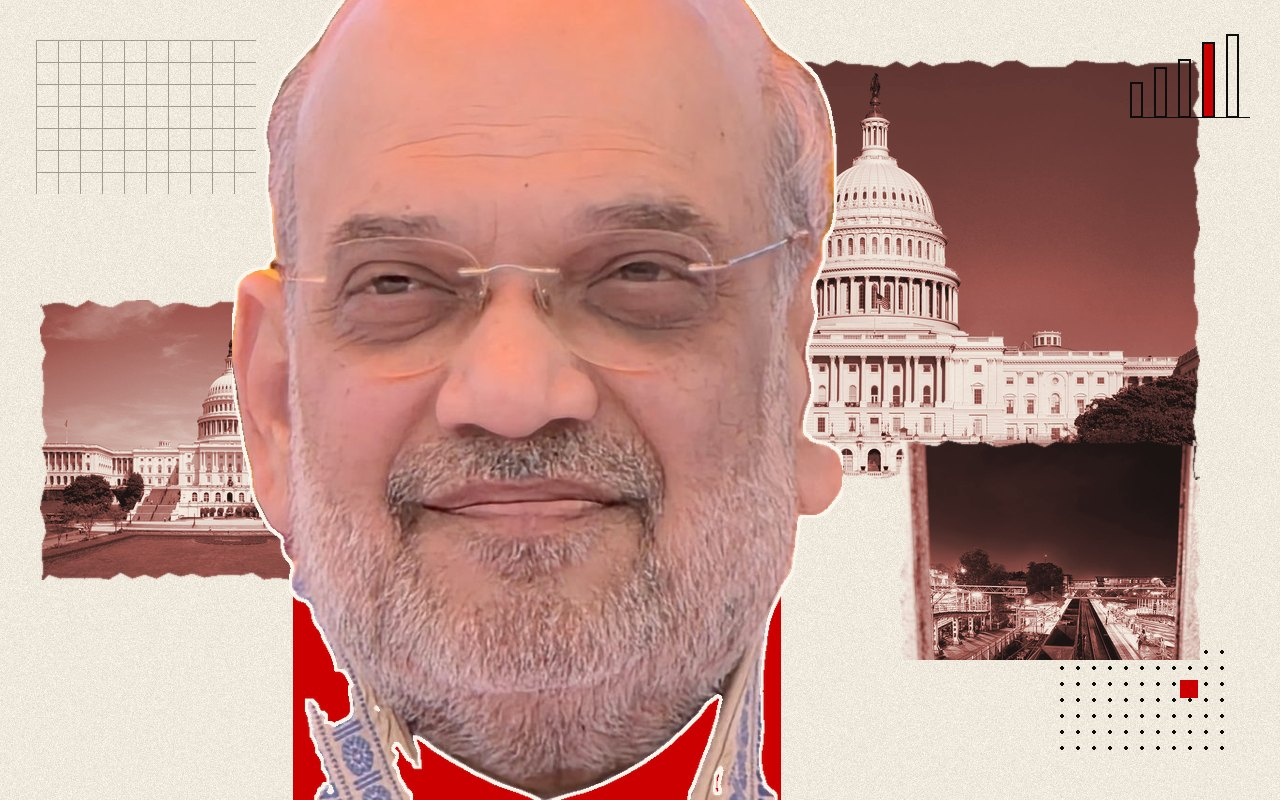
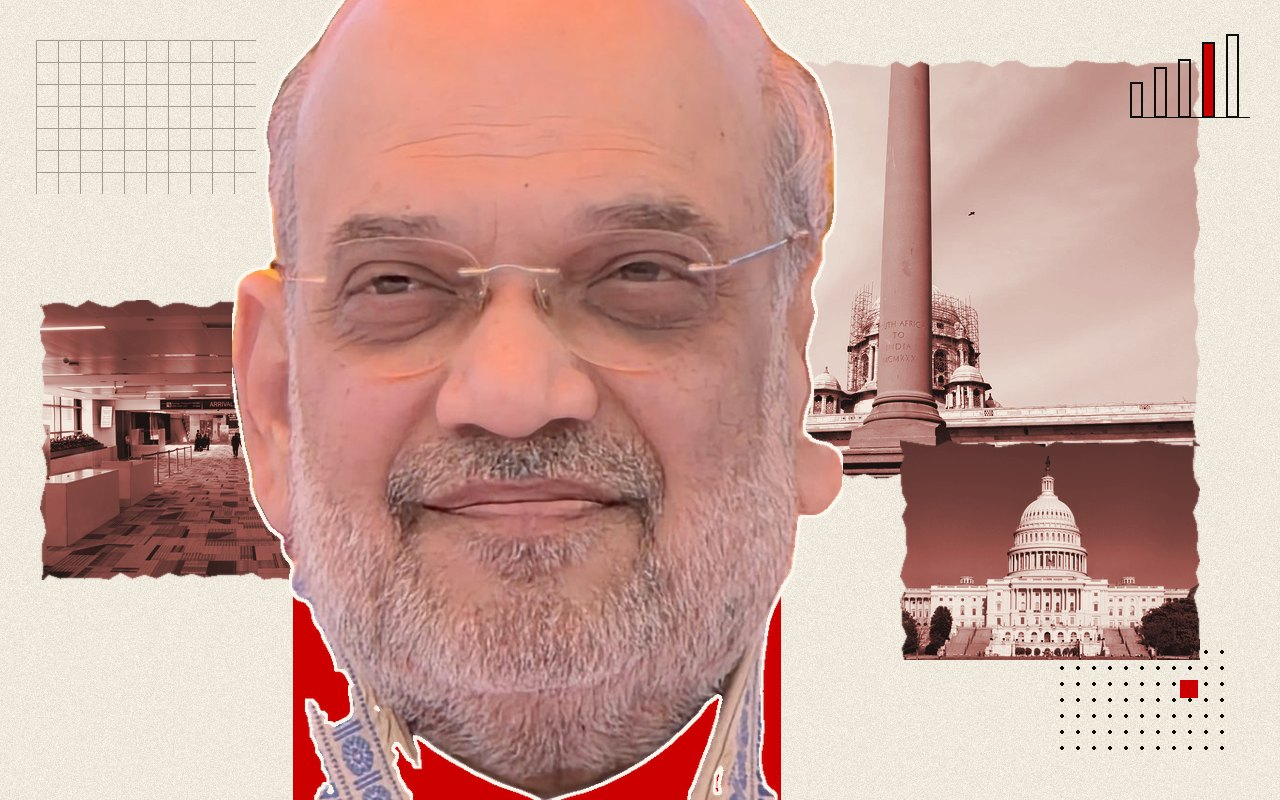
Hourly 20:00 IST: collage fix for the NCB-DEA Operation Monsoon Thunder lead
The first collage put two US Capitol tiles behind a drug-bust story. Added two in-story file photos (North Block, home of the Home Ministry that issued the release; Delhi airport arrivals hall, tied to our earlier customs seizure story) in both languages, so the collage now shows North Block, Delhi airport and one US tile for the India-US operation. Blocklisted x-fcra-explained-2026-amendment-bill-1280.jpg: labelled North Block but shows NGO posters.

Claude-Session: https://claude.ai/code/session_01C3zerTj1wv3wRkA6BjPzEf

Changed region(s): [[0.625, 0.0625, 0.9375, 0.8438], [0.0312, 0.375, 0.2188, 0.7188]]

diff --git a/content/hi/news/ncb-dea-operation-monsoon-thunder-six-arrested-5-lakh-tablets-us.md b/content/hi/news/ncb-dea-operation-monsoon-thunder-six-arrested-5-lakh-tablets-us.md
@@ -81,11 +81,21 @@ verification:
 
 एनसीबी ने **1,500 से ज्यादा गोलियों की ऐसी खेपें** भी पहचानीं जो अमेरिका के अलग-अलग ठिकानों की ओर जा रही थीं। इस खुफिया सूचना पर डीईए ने दो खेपें रोककर जब्त कीं। अमेरिकी एजेंसी एनसीबी से मिले सुराग खंगाल रही है, जिनमें पार्सल पाने वाले ड्रॉप-शिपरों के ब्योरे भी हैं।
 
+```photo
+{"n": 2, "subject": "दिल्ली हवाई अड्डा", "caption": "डाक और हवाई रास्ते से सीमा पार जाने वाले नशे से लड़ाई लगातार जारी है: एक पिछले मामले में दिल्ली हवाई अड्डे के कार्गो परिसर में सीमा शुल्क अधिकारियों को बैंकॉक से आई 148 किलो भांग मिली थी (फाइल फोटो)।", "alt": "दिल्ली हवाई अड्डे का आगमन हॉल (फाइल फोटो)"}
+```
+
+
 ## शाह और वॉशिंगटन ने क्या कहा
 
 श्री शाह ने एक्स पर लिखा कि वे "ऑपरेशन मॉनसून थंडर की अनुकरणीय सफलता पर एनसीबी और अमेरिकी डीईए को हार्दिक बधाई" देते हैं। उन्होंने कहा कि दोनों देशों में हुई गिरफ्तारियां और जब्तियां नशे के खिलाफ भारत-अमेरिका साझेदारी की ताकत दिखाती हैं, और सरकार की **शून्य सहनशीलता नीति** दोहराई: प्रधानमंत्री नरेंद्र मोदी के नेतृत्व में भारत यह सुनिश्चित करने में लगा है कि कोई नशीला पदार्थ देश में न आए और न दूसरों तक जाए।
 
 गृह मंत्रालय की अपनी विज्ञप्ति में, जो 21 नवंबर को पीआईबी के जरिए जारी हुई, दोनों एजेंसियों को यही बधाई दी गई है।
+
+```photo
+{"n": 1, "subject": "नॉर्थ ब्लॉक", "caption": "नॉर्थ ब्लॉक, जहां गृह मंत्रालय है, जिसने इस ऑपरेशन पर विज्ञप्ति जारी की (फाइल फोटो)।", "alt": "नई दिल्ली का नॉर्थ ब्लॉक, गृह मंत्रालय की इमारत (फाइल फोटो)"}
+```
+
 
 ## यह क्यों मायने रखता है
 

diff --git a/content/en/news/ncb-dea-operation-monsoon-thunder-six-arrested-5-lakh-tablets-us.md b/content/en/news/ncb-dea-operation-monsoon-thunder-six-arrested-5-lakh-tablets-us.md
@@ -89,11 +89,21 @@ The two agencies have also swapped data. The records list **more than 59,000 cus
 
 The NCB also identified **live consignments of more than 1,500 tablets** that were on their way to destinations in the United States. Acting on that intelligence, the DEA intercepted and seized two shipments. The US agency is following leads from the NCB, including details of the drop-shippers who received the parcels.
 
+```photo
+{"n": 2, "subject": "Delhi airport", "caption": "Drugs crossing borders by post and air are a running fight: in an earlier case, customs at Delhi airport's cargo complex found 148 kg of cannabis from Bangkok (file photo).", "alt": "The arrivals hall at Delhi airport (file photo)"}
+```
+
+
 ## What Shah and Washington said
 
 Mr Shah wrote on X that he offered "heartiest congratulations to the NCB and the US DEA on the exemplary success of Operation Monsoon Thunder". He said the arrests and seizures in both countries showed the strength of the India-US partnership against drugs, and repeated the government's **zero-tolerance policy**: under Prime Minister Narendra Modi, he said, India is working to ensure that no narcotics enter the country or leave it for others.
 
 The Home Ministry's own release, issued through PIB on November 21, carries the same message of congratulation to the two agencies.
+
+```photo
+{"n": 1, "subject": "North Block", "caption": "North Block, home of the Ministry of Home Affairs, which issued the release on the operation (file photo).", "alt": "North Block, the Home Ministry building, in New Delhi (file photo)"}
+```
+
 
 ## Why it matters
 
